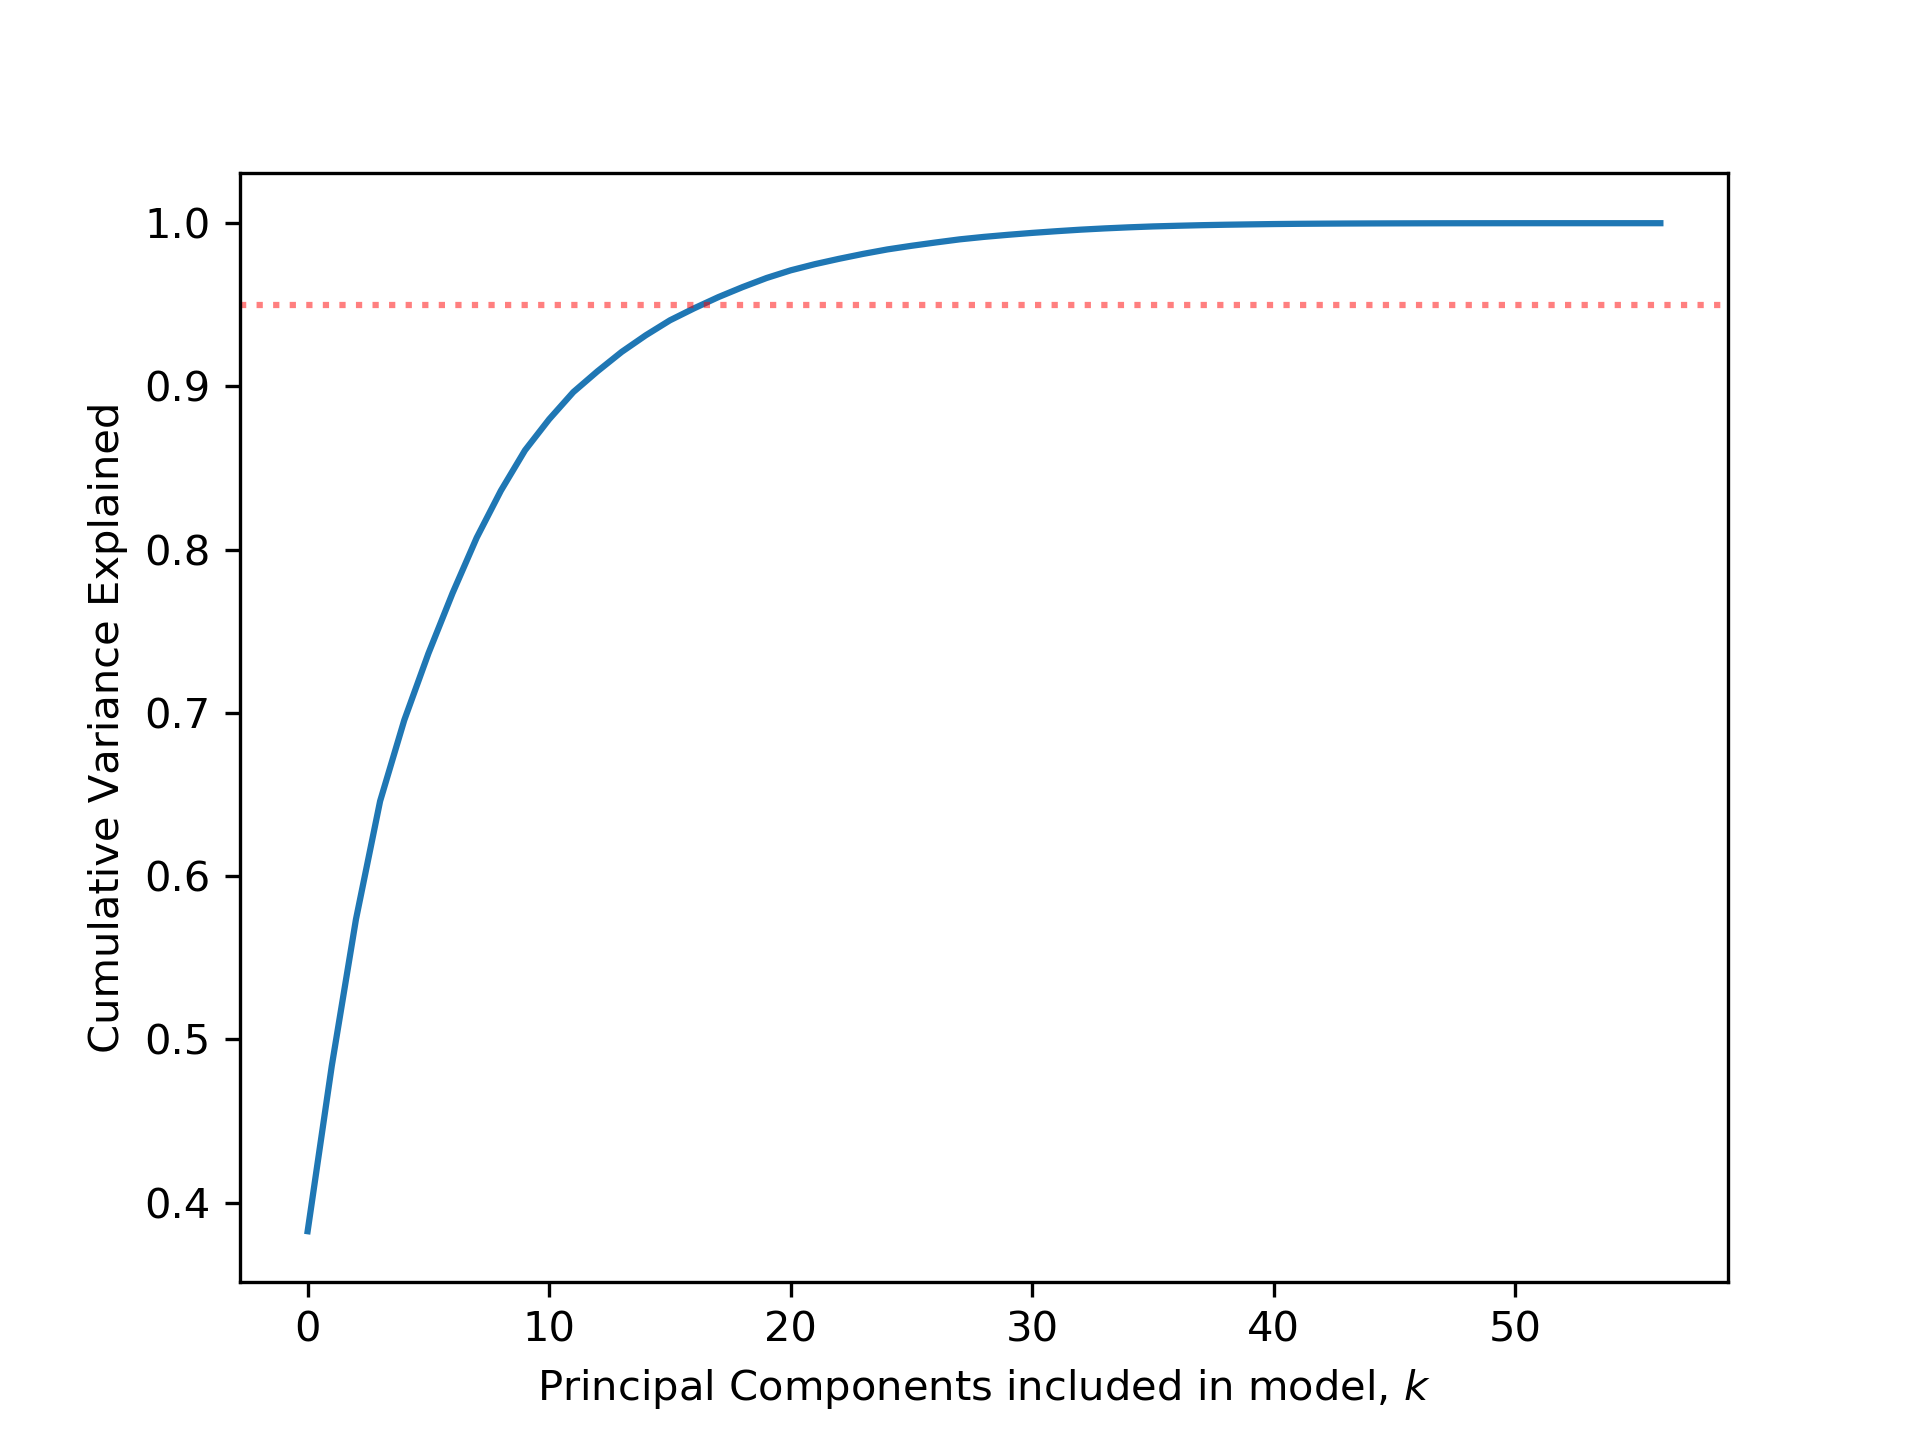
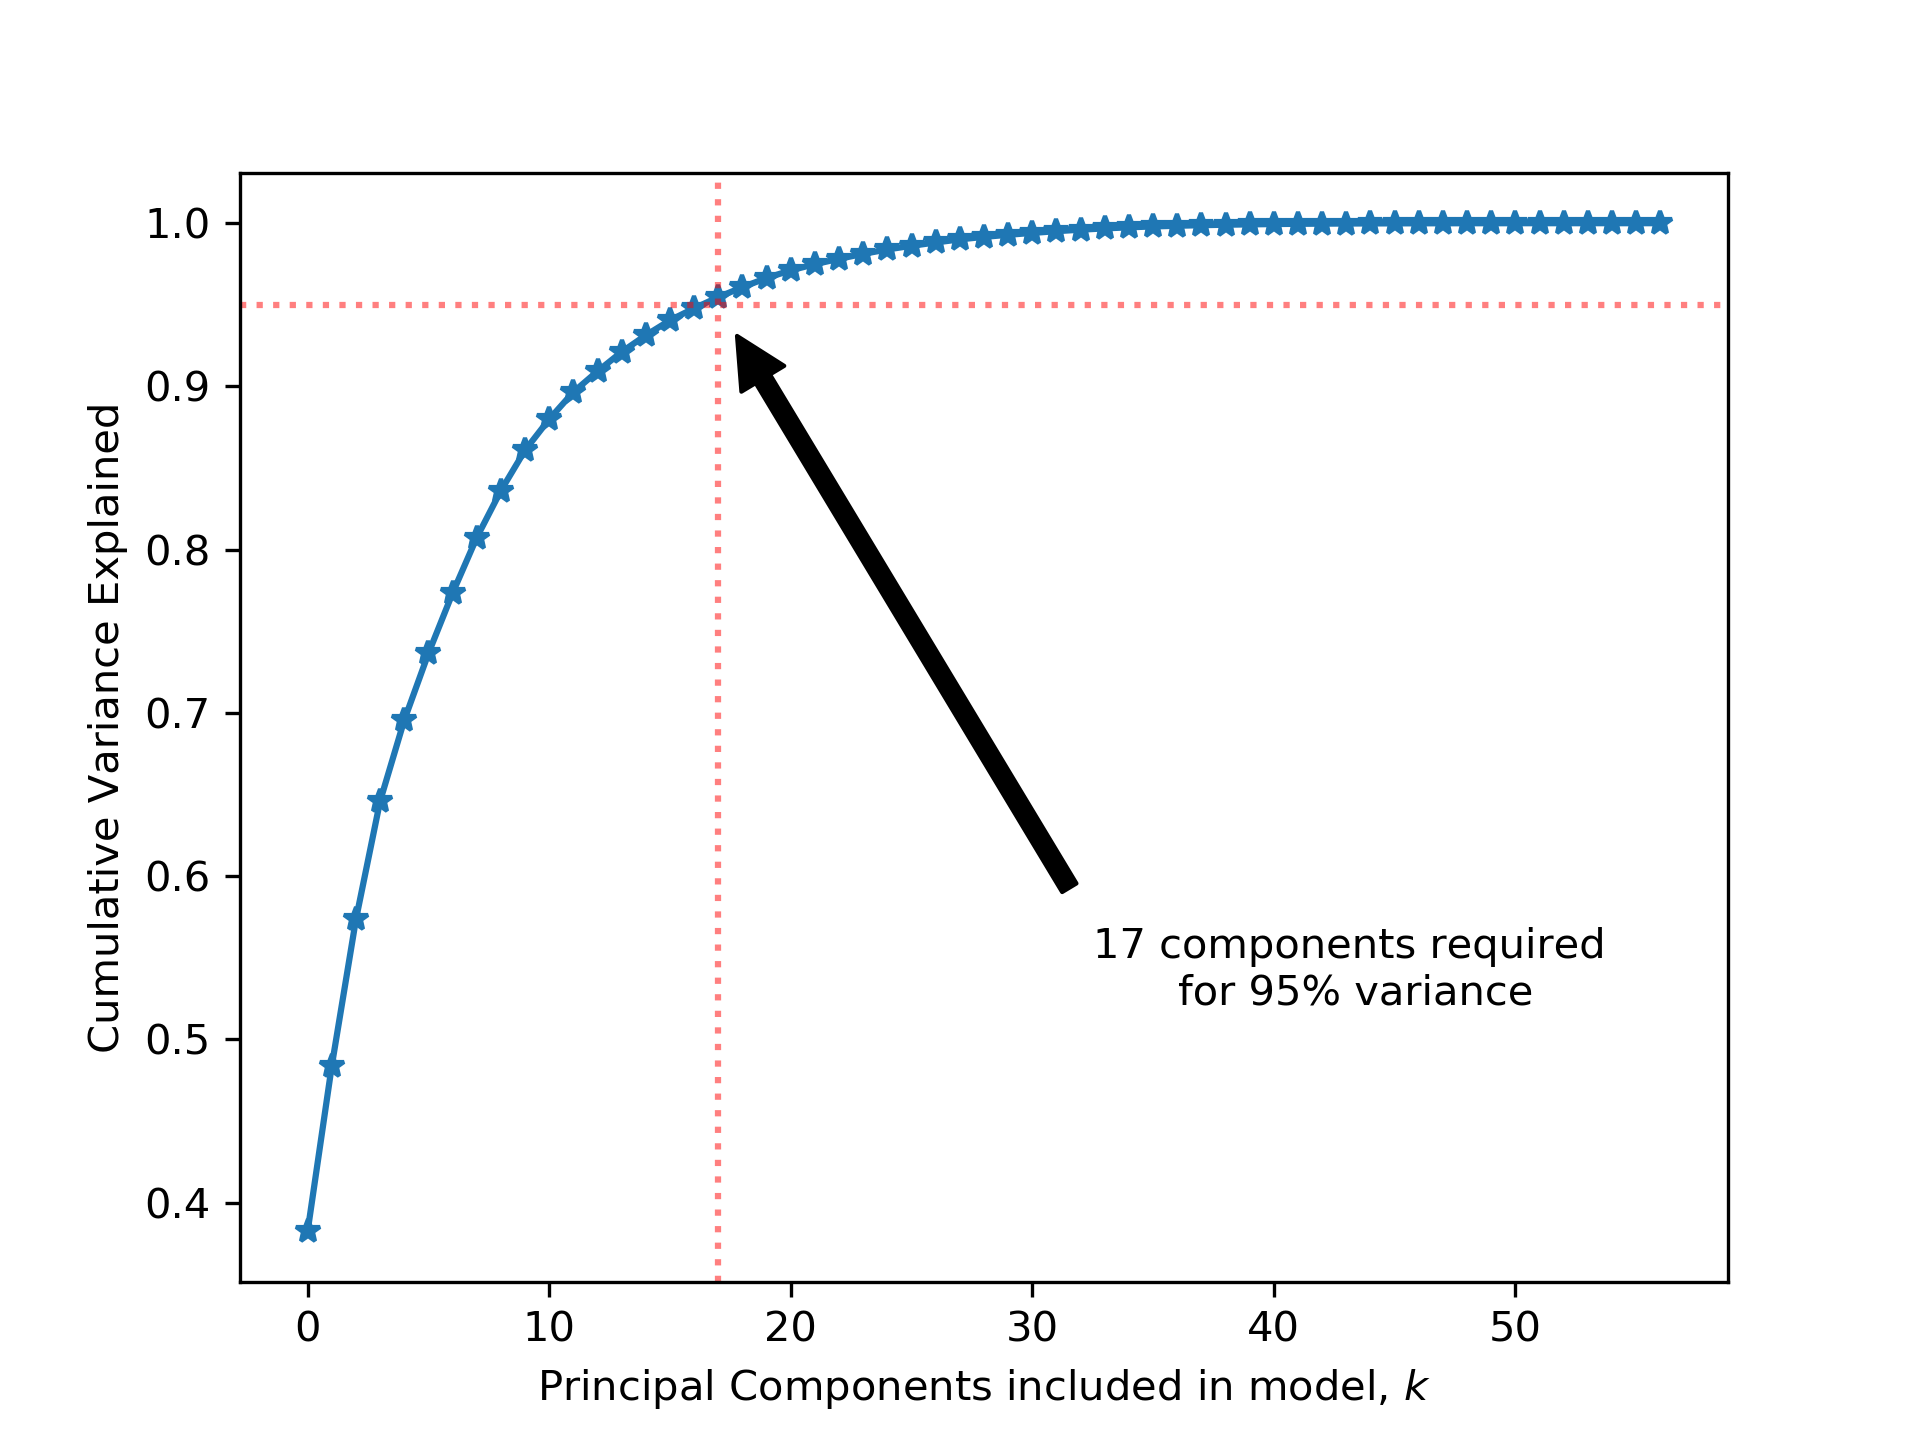
updated picture with annotations

diff --git a/src/visualization/visualize.py b/src/visualization/visualize.py
@@ -25,10 +25,19 @@ plt.savefig(os.path.join(plots_dir, "explained_variance.png"), dpi=300)
 plt.clf()
 
 # Plot of cumulative explained variance
-plt.plot(np.cumsum(pca.explained_variance_ratio_))
-plt.axhline(y=0.95, linestyle=":", color='r', alpha=0.5)
-plt.xlabel(r"Principal Components included in model, $k$")
-plt.ylabel("Cumulative Variance Explained")
+f, ax = plt.subplots()
+ax.plot(np.cumsum(pca.explained_variance_ratio_), '*-')
+ax.axhline(y=0.95, linestyle=":", color='r', alpha=0.5)
+ax.axvline(x=pca.to_explain_variance_frac(0.95), linestyle=":", color='r',
+            alpha=0.5)
+ax.set_xlabel(r"Principal Components included in model, $k$")
+ax.set_ylabel("Cumulative Variance Explained")
+ax.annotate(f"{pca.to_explain_variance_frac(0.95)} "
+            f"components required \nfor 95% variance", 
+            xy=(pca.to_explain_variance_frac(0.95), 0.95), xycoords='data',
+            arrowprops=dict(facecolor='black', shrink=0.05),
+            xytext=(0.75, 0.25), textcoords='axes fraction',
+            horizontalalignment="center")
 plt.savefig(os.path.join(plots_dir, 
                          "cumulative_explained_variance.png"), dpi=300)
 plt.clf()
